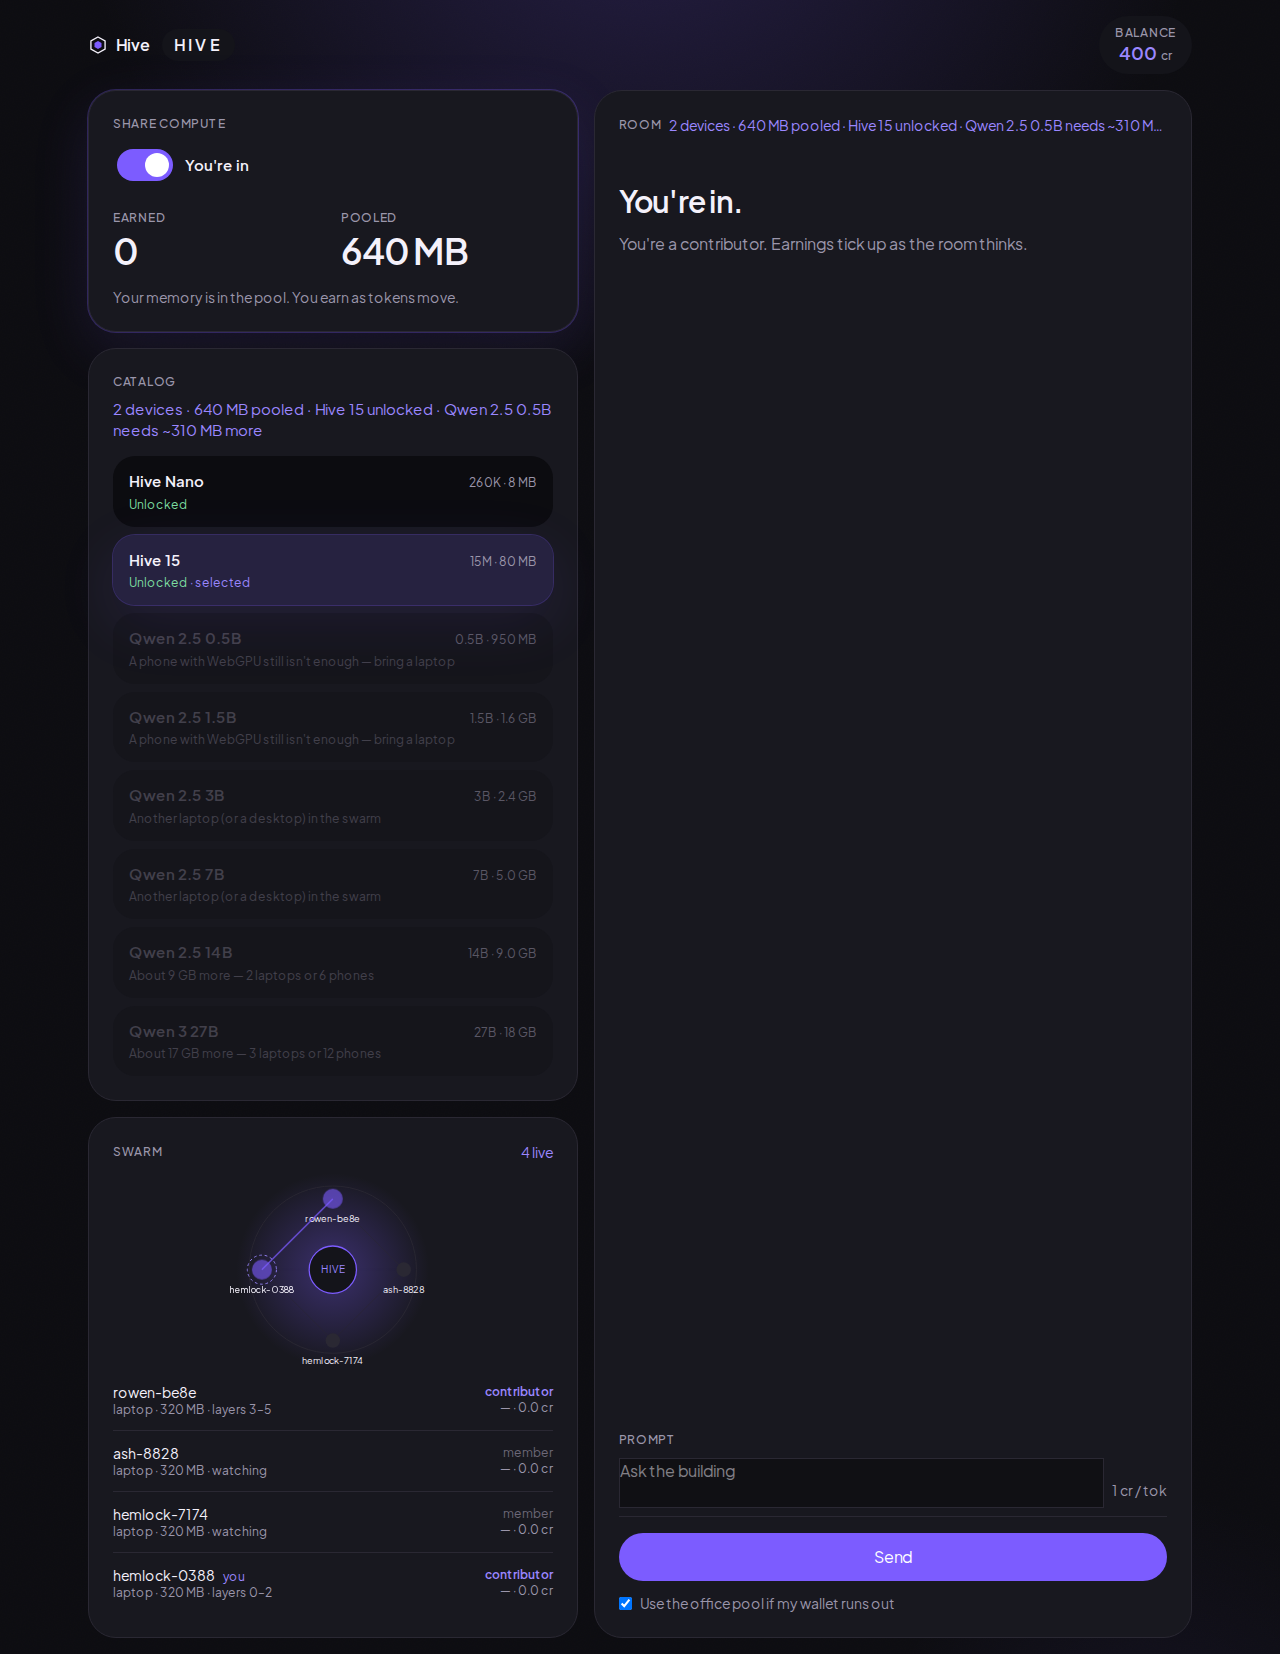
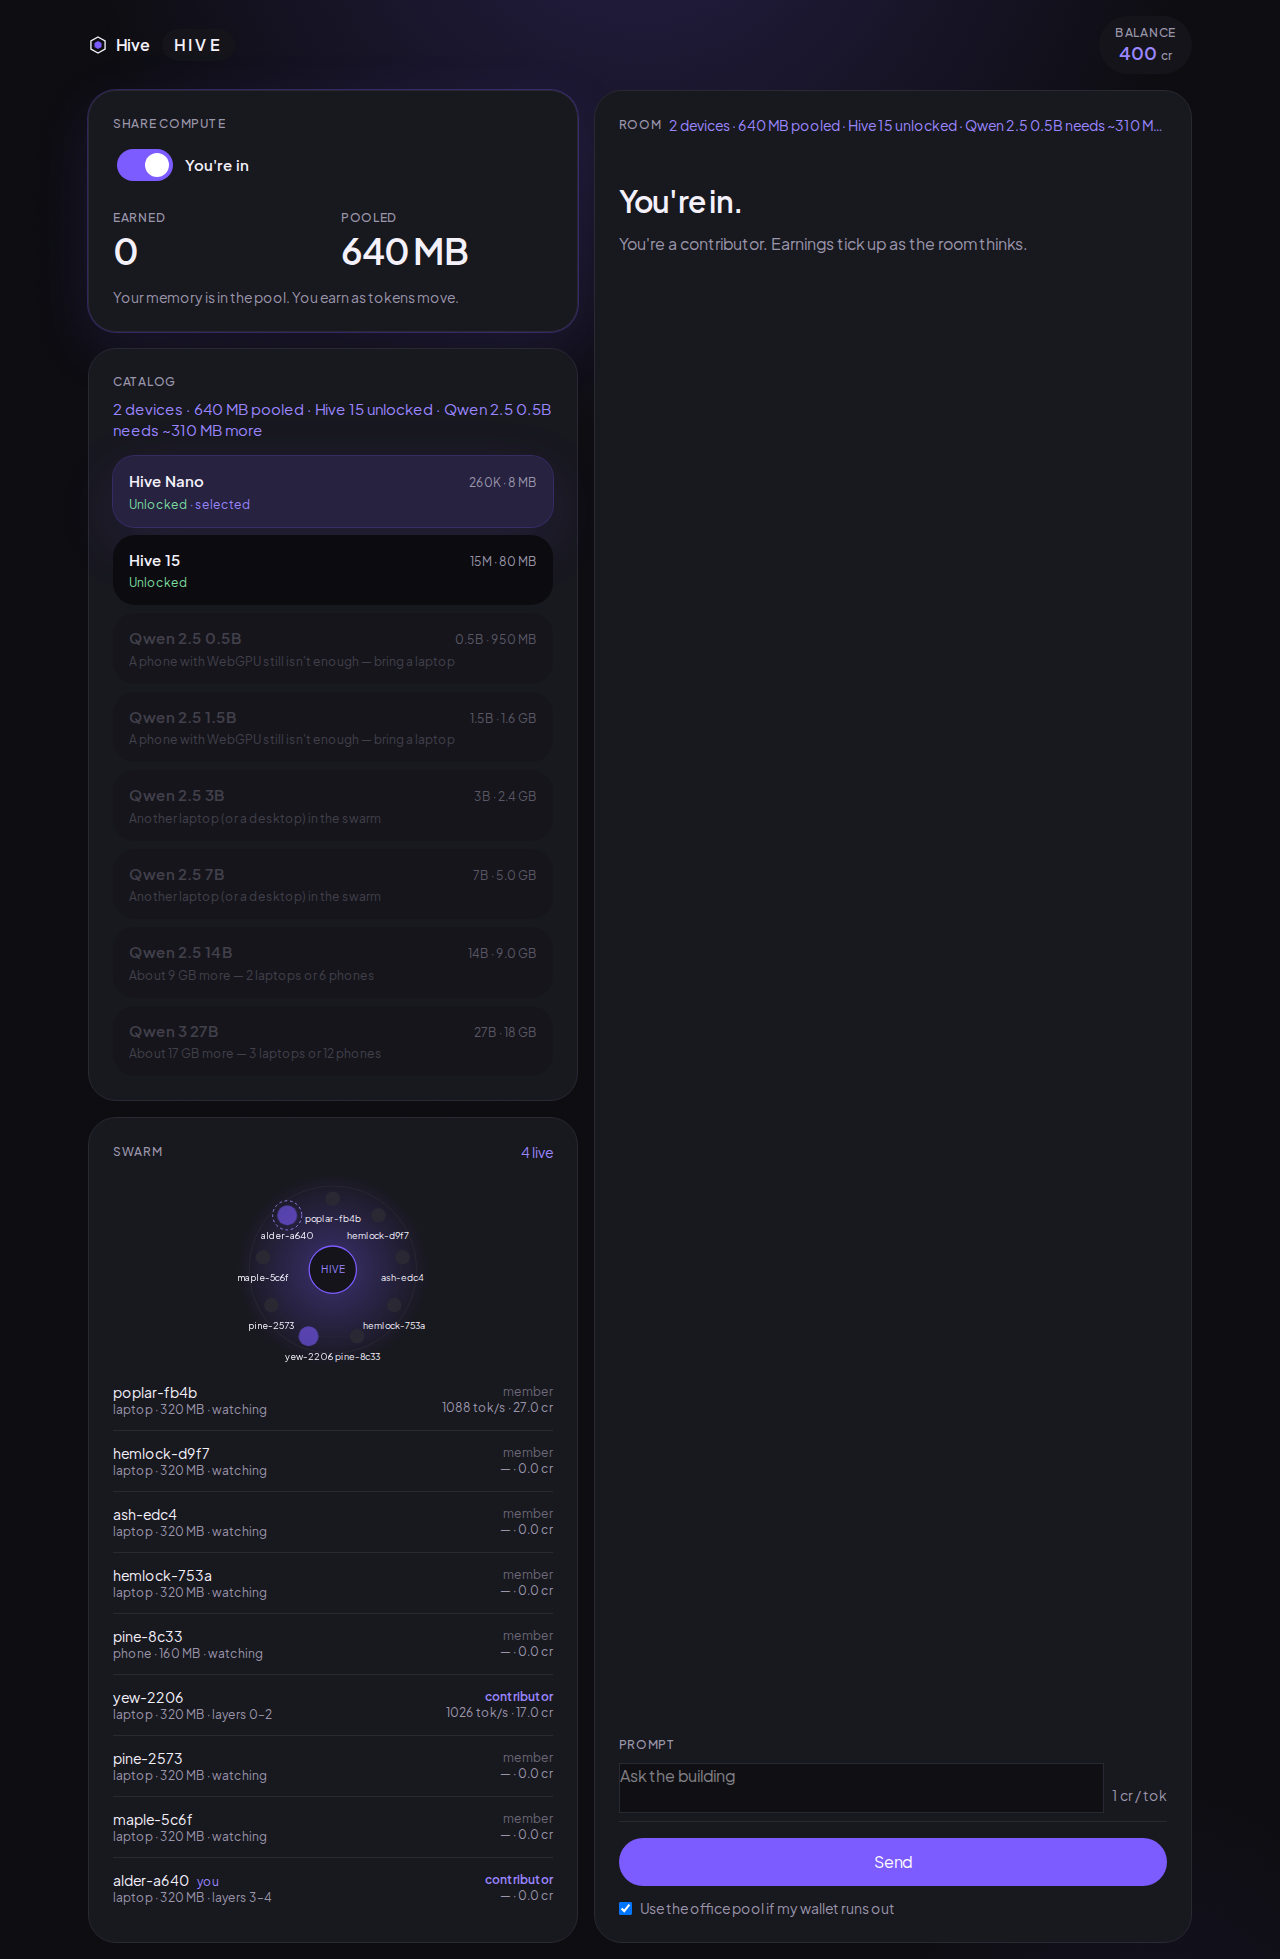
Fix E2E to select Hive Nano and assert token body text
The two-browser test was matching the Swarm label and auto-running
Hive 15 (Hugging Face download), so earnings never moved. Pin Nano,
assert swarm-text, and silence the ledger filesystem trace warning.

diff --git a/e2e/hive.spec.ts b/e2e/hive.spec.ts
@@ -30,6 +30,11 @@ test("two browsers: share unlocks catalog, prompt streams to both, balances move
   await expect(worker.getByTestId("model-hive-nano")).toHaveAttribute("data-unlocked", "true", { timeout: 15_000 });
   await expect(buyer.getByTestId("model-hive-nano")).toHaveAttribute("data-unlocked", "true", { timeout: 15_000 });
 
+  // Use the vendored Nano checkpoint — Hive 15 downloads from the network and
+  // is too slow / flaky for CI. Assert on body text, not the "Swarm · …" label.
+  await buyer.getByTestId("model-hive-nano").click();
+  await expect(buyer.getByTestId("model-hive-nano")).toContainText(/selected/i, { timeout: 10_000 });
+
   const workerBalance = await worker.getByTestId("balance").innerText();
   const buyerBalance = await buyer.getByTestId("balance").innerText();
 
@@ -38,31 +43,23 @@ test("two browsers: share unlocks catalog, prompt streams to both, balances move
 
   await expect(buyer.getByTestId("swarm-message")).toBeVisible({ timeout: 45_000 });
   await expect(worker.getByTestId("swarm-message")).toBeVisible({ timeout: 45_000 });
-  await expect.poll(async () => buyer.getByTestId("swarm-message").innerText(), { timeout: 45_000 }).toMatch(/\w{3,}/);
-  await expect.poll(async () => worker.getByTestId("swarm-message").innerText(), { timeout: 45_000 }).toMatch(/\w{3,}/);
+  await expect
+    .poll(async () => buyer.getByTestId("swarm-text").innerText(), { timeout: 60_000 })
+    .toMatch(/[A-Za-z]{3,}/);
+  await expect
+    .poll(async () => worker.getByTestId("swarm-text").innerText(), { timeout: 60_000 })
+    .toMatch(/[A-Za-z]{3,}/);
 
   await expect.poll(async () => buyer.getByTestId("balance").innerText()).not.toEqual(buyerBalance);
-  try {
-    await expect
-      .poll(async () => Number(await worker.getByTestId("earnings").getAttribute("data-earned")))
-      .toBeGreaterThan(0);
-  } catch (err) {
-    const dump = await worker.evaluate(() => ({
-      earnedText: document.querySelector("[data-testid=earnings]")?.textContent,
-      earnedAttr: document.querySelector("[data-testid=earnings]")?.getAttribute("data-earned"),
-      balance: document.querySelector("[data-testid=balance]")?.textContent,
-      connected: document.querySelector("[data-connected]")?.getAttribute("data-connected"),
-      swarm: document.querySelector("[data-testid=swarm-message]")?.textContent,
-    }));
-    const buyerDump = await buyer.evaluate(() => ({
-      balance: document.querySelector("[data-testid=balance]")?.textContent,
-      swarm: document.querySelector("[data-testid=swarm-message]")?.textContent,
-    }));
-    console.log("earnings dump", { dump, buyerDump, workerBalance, buyerBalance });
-    throw err;
-  }
+  await expect
+    .poll(async () => Number(await worker.getByTestId("earnings").getAttribute("data-earned")), {
+      timeout: 30_000,
+    })
+    .toBeGreaterThan(0);
 
-  void workerBalance;
+  // Worker wallet should also receive the layer split.
+  await expect.poll(async () => worker.getByTestId("balance").innerText()).not.toEqual(workerBalance);
+
   await workerCtx.close();
   await buyerCtx.close();
 });

diff --git a/src/components/hive-room.tsx b/src/components/hive-room.tsx
@@ -127,7 +127,11 @@ export function HiveRoom({ code }: { code: string }) {
                     {m.role === "you" ? m.authorName || "You" : m.role === "swarm" ? `Swarm · ${m.modelId}` : "Hive"}
                     {m.live ? " · live" : ""}
                   </p>
-                  <p className="mt-2 text-[22px] leading-snug font-medium whitespace-pre-wrap" data-role={m.role}>
+                  <p
+                    className="mt-2 text-[22px] leading-snug font-medium whitespace-pre-wrap"
+                    data-role={m.role}
+                    data-testid={m.role === "swarm" ? "swarm-text" : "user-text"}
+                  >
                     {m.text || (m.live ? "…" : "")}
                   </p>
                 </article>
